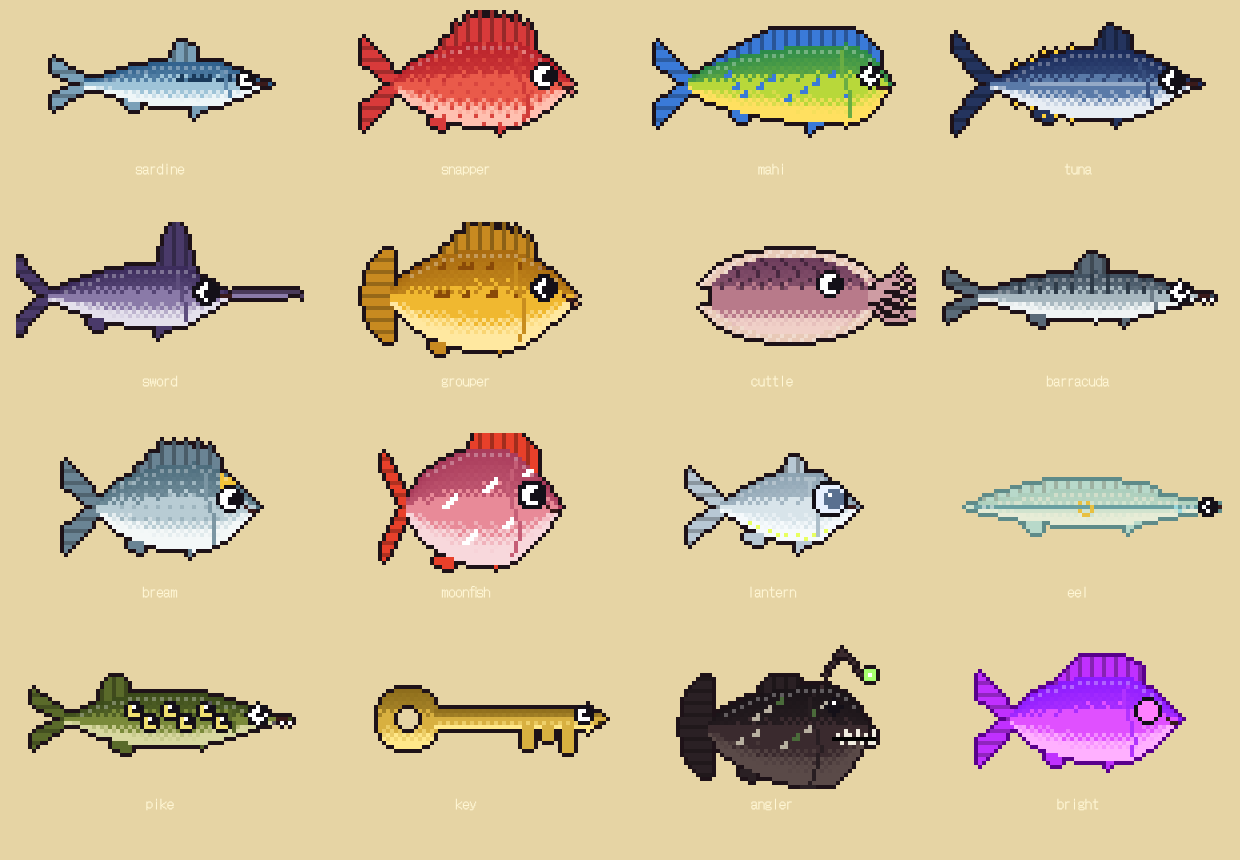
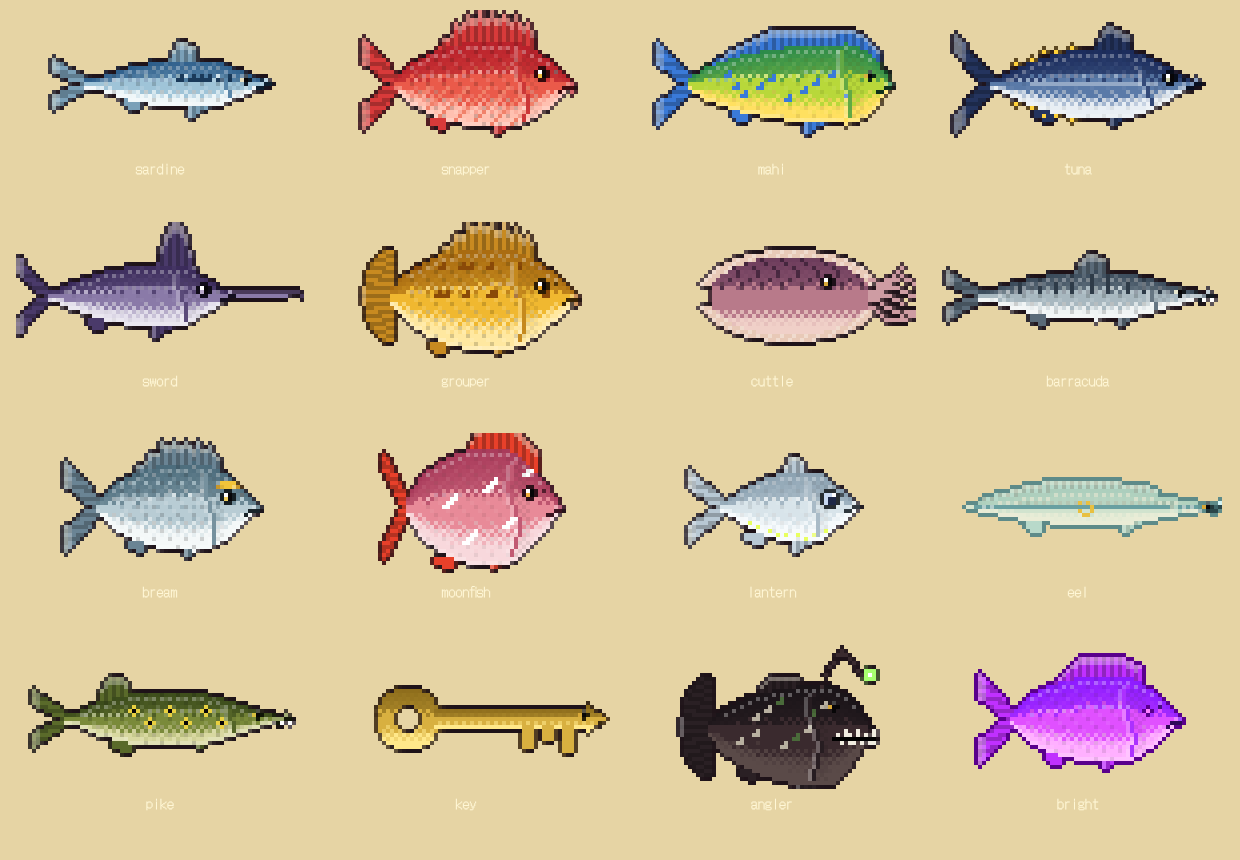
Fish portraits: small real eyes, scales, lateral line, gill covers, fin rays, belly light and coloured outlines
Claude-Session: https://claude.ai/code/session_01P2UrDs7rn72ju48cre94LE

diff --git a/src/fishart.js b/src/fishart.js
@@ -11,23 +11,23 @@ const mixc = (a, b, k) => a.map((v, i) => Math.round(v + (b[i] - v) * k));
 // ---- the species. len/h: body length and half height; peak: where it is deepest (0 tail .. 1 nose); nose: how blunt the head is;
 // cols: back, side, belly, fin; tail: fork | lunate | round | fan | none; dorsal: [from, to, height]; pattern; eye: [t, size]
 const SPEC = {
-  sardine:   { len: 46, h: 6,  peak: 0.6, nose: 0.5, cols: ['#2c5d8a', '#9fc4d8', '#eef6f8', '#7aa0b8'], tail: 'fork', dorsal: [0.45, 0.6, 5], pattern: 'dots', eye: [0.88, 2.2] },
-  snapper:   { len: 44, h: 11, peak: 0.6, nose: 0.6, cols: ['#b8202a', '#ea5a4a', '#ffc0b0', '#d83a3a'], tail: 'fork', dorsal: [0.25, 0.78, 7, 'spiky'], pattern: 'scales', eye: [0.84, 3], lips: true },
-  mahi:      { len: 50, h: 10, peak: 0.78, nose: 1.0, cols: ['#2a8a4a', '#b8d83a', '#ffe060', '#3a7ad8'], tail: 'fork', dorsal: [0.12, 0.95, 5], pattern: 'bluedots', eye: [0.9, 2.4] },
-  tuna:      { len: 52, h: 9,  peak: 0.55, nose: 0.55, cols: ['#1a2a5a', '#5a7aa8', '#e8eef4', '#24345e'], tail: 'lunate', dorsal: [0.5, 0.66, 6], pattern: 'finlets', eye: [0.86, 2.6] },
-  sword:     { len: 46, h: 8,  peak: 0.62, nose: 0.6, cols: ['#3a2a5a', '#8a7aa8', '#e4e0ec', '#4a3a6a'], tail: 'lunate', dorsal: [0.58, 0.78, 11], pattern: null, eye: [0.84, 2.6], bill: 18 },
-  grouper:   { len: 46, h: 12, peak: 0.55, nose: 0.8, cols: ['#a86a10', '#f0b830', '#ffe8a0', '#c88a20'], tail: 'round', dorsal: [0.25, 0.75, 6, 'spiky'], pattern: 'spots', eye: [0.82, 2.6], lips: true, big: true },
+  sardine:   { len: 46, h: 6,  peak: 0.6, nose: 0.5, cols: ['#2c5d8a', '#9fc4d8', '#eef6f8', '#7aa0b8'], tail: 'fork', dorsal: [0.45, 0.6, 5], pattern: 'dots', eye: [0.88, 2.2], iris: '#e8e0c0' },
+  snapper:   { len: 44, h: 11, peak: 0.6, nose: 0.6, cols: ['#b8202a', '#ea5a4a', '#ffc0b0', '#d83a3a'], tail: 'fork', dorsal: [0.25, 0.78, 7, 'spiky'], pattern: 'scales', eye: [0.84, 3], lips: true, iris: '#f0c040' },
+  mahi:      { len: 50, h: 10, peak: 0.78, nose: 1.0, cols: ['#2a8a4a', '#b8d83a', '#ffe060', '#3a7ad8'], tail: 'fork', dorsal: [0.12, 0.95, 5], pattern: 'bluedots', eye: [0.9, 2.4], iris: '#d8b040', scale: 0.5 },
+  tuna:      { len: 52, h: 9,  peak: 0.55, nose: 0.55, cols: ['#1a2a5a', '#5a7aa8', '#e8eef4', '#24345e'], tail: 'lunate', dorsal: [0.5, 0.66, 6], pattern: 'finlets', eye: [0.86, 2.6], iris: '#c8c8a0', scale: 0.4 },
+  sword:     { len: 46, h: 8,  peak: 0.62, nose: 0.6, cols: ['#3a2a5a', '#8a7aa8', '#e4e0ec', '#4a3a6a'], tail: 'lunate', dorsal: [0.58, 0.78, 11], pattern: null, eye: [0.84, 2.6], bill: 18, iris: '#b8a8c8', scale: 0.3 },
+  grouper:   { len: 46, h: 12, peak: 0.55, nose: 0.8, cols: ['#a86a10', '#f0b830', '#ffe8a0', '#c88a20'], tail: 'round', dorsal: [0.25, 0.75, 6, 'spiky'], pattern: 'spots', eye: [0.82, 2.6], lips: true, big: true, iris: '#e8a020' },
   cuttle:    { cuttle: true, len: 40, h: 10, cols: ['#6a3a5a', '#b87a8a', '#f0d0c8', '#e8c8b8'], eye: [0.74, 3] },
-  barracuda: { len: 58, h: 6,  peak: 0.5, nose: 0.35, cols: ['#3a4a5a', '#a8b8c0', '#f0f4f4', '#5a6a78'], tail: 'fork', dorsal: [0.42, 0.55, 5], pattern: 'bars', eye: [0.86, 2.4], teeth: true },
-  bream:     { len: 40, h: 11, peak: 0.6, nose: 0.75, cols: ['#4a6a7a', '#b8ccd4', '#f4f8f8', '#6a8494'], tail: 'fork', dorsal: [0.25, 0.75, 5, 'spiky'], pattern: 'gilt', eye: [0.82, 3] },
-  moonfish:  { len: 38, h: 15, peak: 0.55, nose: 0.85, cols: ['#a83a5a', '#e88a98', '#f8d8dc', '#e8402a'], tail: 'lunate', dorsal: [0.4, 0.85, 9], pattern: 'whitespots', eye: [0.82, 3.2], tailK: 0.7 },
+  barracuda: { len: 58, h: 6,  peak: 0.5, nose: 0.35, cols: ['#3a4a5a', '#a8b8c0', '#f0f4f4', '#5a6a78'], tail: 'fork', dorsal: [0.42, 0.55, 5], pattern: 'bars', eye: [0.86, 2.4], teeth: true, iris: '#e8e8d0' },
+  bream:     { len: 40, h: 11, peak: 0.6, nose: 0.75, cols: ['#4a6a7a', '#b8ccd4', '#f4f8f8', '#6a8494'], tail: 'fork', dorsal: [0.25, 0.75, 5, 'spiky'], pattern: 'gilt', eye: [0.82, 3], iris: '#f0d060' },
+  moonfish:  { len: 38, h: 15, peak: 0.55, nose: 0.85, cols: ['#a83a5a', '#e88a98', '#f8d8dc', '#e8402a'], tail: 'lunate', dorsal: [0.4, 0.85, 9], pattern: 'whitespots', eye: [0.82, 3.2], tailK: 0.7, iris: '#f0b040', scale: 0.4 },
   // the dark ones (only ever drawn once caught)
-  lantern:   { len: 34, h: 9,  peak: 0.62, nose: 0.85, cols: ['#8aa0b0', '#d8e4ea', '#f6fafc', '#b8c8d4'], tail: 'fork', dorsal: [0.45, 0.62, 4], pattern: 'photophores', eye: [0.8, 4.2], pale: true },
+  lantern:   { len: 34, h: 9,  peak: 0.62, nose: 0.85, cols: ['#8aa0b0', '#d8e4ea', '#f6fafc', '#b8c8d4'], tail: 'fork', dorsal: [0.45, 0.62, 4], pattern: 'photophores', eye: [0.8, 4.2], pale: true, scale: 0.5 },
   eel:       { len: 64, h: 4.5, peak: 0.5, nose: 0.4, cols: ['#7ac8d0', '#bfeef0', '#e8ffff', '#9adce4'], tail: 'none', dorsal: [0.05, 0.75, 2], pattern: 'glass', eye: [0.94, 1.8], glass: true },
-  pike:      { len: 56, h: 7,  peak: 0.45, nose: 0.35, cols: ['#3a4a1a', '#7a8a3a', '#d8d8a0', '#5a6a2a'], tail: 'fork', dorsal: [0.15, 0.28, 6], pattern: 'eyes', eye: [0.86, 2.4], teeth: true },
+  pike:      { len: 56, h: 7,  peak: 0.45, nose: 0.35, cols: ['#3a4a1a', '#7a8a3a', '#d8d8a0', '#5a6a2a'], tail: 'fork', dorsal: [0.15, 0.28, 6], pattern: 'eyes', eye: [0.86, 2.4], teeth: true, iris: '#d8c040' },
   key:       { key: true, len: 52, h: 5, cols: ['#8a6a1a', '#d8b040', '#ffe88a', '#a8842a'], eye: [0.9, 2.2] },
   angler:    { len: 40, h: 13, peak: 0.7, nose: 1.0, cols: ['#1a1418', '#3a2a2e', '#5a4a48', '#2a2024'], tail: 'round', dorsal: [0.3, 0.55, 4], pattern: 'barnacles', eye: [0.78, 1.4], angler: true },
-  bright:    { len: 42, h: 11, peak: 0.6, nose: 0.7, cols: ['#8a1aff', '#e050ff', '#ffb0ff', '#c030ff'], tail: 'fork', dorsal: [0.25, 0.75, 6], pattern: null, eye: [0.82, 2.8], neon: true },
+  bright:    { len: 42, h: 11, peak: 0.6, nose: 0.7, cols: ['#8a1aff', '#e050ff', '#ffb0ff', '#c030ff'], tail: 'fork', dorsal: [0.25, 0.75, 6], pattern: null, eye: [0.82, 2.8], neon: true, scale: 0.6 },
 };
 
 function paint(id) {
@@ -85,31 +85,47 @@ function paint(id) {
     if (S.tail === 'round' || S.tail === 'fan') return u * u + v * v * 0.9 < 0.8;
     return false;
   };
-  for (let x = tx - 10; x <= tx + 1; x++) for (let y = 0; y < H; y++) if (S.tail !== 'none' && tailPx(x, y)) set(x, y, mixc(fin, [0, 0, 0], ((y - cy) % 3 === 0) ? 0.25 : 0), S.glass ? 0.6 : 1);
+  for (let x = tx - 10; x <= tx + 1; x++) for (let y = 0; y < H; y++) if (S.tail !== 'none' && tailPx(x, y)) {   // rays fanning out, the tips lighter and thinner
+    const u = (tx - x) / 9, ray = (Math.round((y - cy) * (1 - u * 0.35)) & 1) === 0;
+    set(x, y, mixc(mixc(fin, [0, 0, 0], ray ? 0.22 : 0), [255, 255, 255], u > 0.7 ? 0.28 : 0), S.glass ? 0.6 : u > 0.8 ? 0.85 : 1); }
   // dorsal fin
   if (S.dorsal) { const [a, b, hh, spiky] = S.dorsal;
     for (let x = x0 + a * S.len; x <= x0 + b * S.len; x++) { const t = (x - x0) / S.len, k = (t - a) / (b - a), top = topOf(t);
       let fh = hh * (S.sword || id === 'sword' ? Math.sin(k * Math.PI) : Math.min(1, k * 3) * (1 - k * 0.45)); if (spiky && (Math.round(x) % 3 === 0)) fh += 1.5;
-      for (let y = top - fh; y < top + 1; y++) set(x, y, mixc(fin, [0, 0, 0], Math.round(x) % 3 === 0 ? 0.3 : 0), S.glass ? 0.6 : 1); } }
+      for (let y = top - fh; y < top + 1; y++) { const tip = (top - y) / Math.max(1, fh); set(x, y, mixc(mixc(fin, [0, 0, 0], Math.round(x) % 2 === 0 ? 0.25 : 0), [255, 255, 255], tip > 0.7 ? 0.3 : 0), S.glass ? 0.6 : tip > 0.8 ? 0.85 : 1); } } }
   // belly fins (pectoral and anal)
   { const pt = 0.7, px = x0 + pt * S.len, pb = botOf(pt);
-    for (let i = 0; i < 6; i++) for (let j = 0; j <= i * 0.6; j++) set(px - i, pb - 1 + j, fin, S.glass ? 0.6 : 1);
+    for (let i = 0; i < 7; i++) for (let j = 0; j <= i * 0.6; j++) set(px - i, pb - 1 + j, mixc(fin, i % 2 ? [0, 0, 0] : [255, 255, 255], i % 2 ? 0.2 : (i > 4 ? 0.25 : 0)), S.glass ? 0.6 : 1);
     const at = 0.28, ax = x0 + at * S.len, ab = botOf(at);
     for (let i = 0; i < 5; i++) for (let j = 0; j < 3 - i * 0.4; j++) set(ax - i * 0.8, ab + j, fin, S.glass ? 0.6 : 1); }
   // body
   for (let x = x0; x <= x1; x++) { const t = (x - x0) / S.len, top = topOf(t), bot = botOf(t);
-    for (let y = Math.ceil(top); y <= Math.floor(bot); y++) { const v = (y - top) / Math.max(1, bot - top); set(x, y, shade(v, x, y), S.glass ? 0.55 : 1); } }
+    for (let y = Math.ceil(top); y <= Math.floor(bot); y++) { const v = (y - top) / Math.max(1, bot - top); let c = shade(v, x, y); if (y === Math.floor(bot) && !S.angler) c = mixc(c, [255, 255, 255], 0.22); set(x, y, c, S.glass ? 0.55 : 1); } }
   // patterns
   const onBody = (x, y) => { const t = (x - x0) / S.len; return t >= 0 && t <= 1 && y > topOf(t) + 0.5 && y < botOf(t) - 0.5; };
+  const gillT = S.eye[0] - 0.12;
+  if (S.scale !== 0 && !S.glass && !S.angler) {   // scales: offset rows of small crescents, a dark edge and a lit one, behind the gill only
+    const k = S.scale || 1;
+    for (let y = 0; y < H; y++) for (let x = x0 + 4; x < x0 + S.len * gillT - 1; x++) {
+      if (!onBody(x, y)) continue; const i = y * W + x, c = col[i]; if (!c) continue;
+      const m = (x + ((y >> 1) & 1) * 2) % 4;
+      if ((y & 1) === 0 && m === 0) col[i] = mixc(c, [0, 0, 0], 0.16 * k);
+      else if ((y & 1) === 1 && m === 1) col[i] = mixc(c, [255, 255, 255], 0.12 * k);
+    }
+  }
+  if (!S.angler) for (let x = x0 + 5; x < x0 + S.len * gillT; x += 2) {   // the lateral line, from the gill to the tail
+    const t = (x - x0) / S.len, y = Math.round(topOf(t) + (botOf(t) - topOf(t)) * 0.36 + Math.sin(t * 5) * 0.4), i = y * W + x;
+    if (onBody(x, y) && col[i]) col[i] = mixc(col[i], S.glass ? [40, 90, 100] : [255, 255, 255], 0.35);
+  }
   const dot = (x, y, c, r = 1) => { for (let a = -r; a <= r; a++) for (let b = -r; b <= r; b++) if (a * a + b * b <= r * r + 0.3 && onBody(x + a, y + b)) set(x + a, y + b, c, S.glass ? 0.7 : 1); };
   switch (S.pattern) {
     case 'dots': for (let i = 0; i < 6; i++) dot(x0 + S.len * (0.52 + i * 0.05), cy - 1, '#1a3a5a', 0.6); break;
-    case 'scales': for (let x = x0 + 6; x < x1 - 6; x++) for (let y = 0; y < H; y++) if (onBody(x, y) && (x + (y % 4 < 2 ? 0 : 2)) % 4 === 0 && y % 2 === 0) set(x, y, mixc(side, back, 0.35)); break;
+    case 'scales': for (let x = x0 + 6; x < x1 - 8; x++) for (let y = 0; y < H; y++) if (onBody(x, y) && (x + y) % 5 === 0 && y > cy) set(x, y, mixc(side, [255, 220, 180], 0.3)); break;   // a pale sheen low on the flank
     case 'bluedots': for (let i = 0; i < 10; i++) dot(x0 + S.len * (0.2 + (i * 0.073) % 0.62), cy - 2 + ((i * 5) % 7), '#3a7ad8', 0.6); break;
     case 'finlets': for (let i = 0; i < 5; i++) { const x = x0 + S.len * (0.12 + i * 0.065); set(x, topOf((x - x0) / S.len) - 1, '#ffd23a'); set(x, botOf((x - x0) / S.len) + 1, '#ffd23a'); } for (let x = x0 + 10; x < x1 - 10; x++) set(x, cy, mixc(side, [255, 255, 255], 0.35)); break;
     case 'spots': for (let i = 0; i < 14; i++) dot(x0 + S.len * (0.15 + (i * 0.137) % 0.7), cy - 7 + ((i * 7) % 14), '#8a4a08', 0.7); break;
     case 'bars': for (let k = 0; k < 9; k++) { const x = x0 + S.len * (0.18 + k * 0.075); for (let y = cy - 5; y < cy; y++) if (onBody(x, y)) set(x, y, mixc(back, [0, 0, 0], 0.2)); } break;
-    case 'gilt': for (let y = cy - 8; y < cy - 3; y++) for (let x = x1 - 10; x < x1 - 5; x++) if (onBody(x, y) && Math.abs(x - (x1 - 7.5)) < 1.6) set(x, y, '#f2c43a'); for (let x = x0 + 6; x < x1 - 8; x += 3) for (let y = cy - 6; y < cy + 6; y += 3) if (onBody(x, y)) set(x, y, mixc(side, back, 0.25)); break;
+    case 'gilt': { const exg = Math.round(x0 + S.len * S.eye[0]), eyg = Math.round(cy - prof(S.eye[0]) * 0.32); for (let x = exg - 3; x <= exg + 2; x++) for (let y = eyg - 4; y <= eyg - 3; y++) if (onBody(x, y)) set(x, y, x === exg - 3 || x === exg + 2 ? '#c8962a' : '#f2c43a'); } for (let x = x0 + 6; x < x1 - 8; x += 3) for (let y = cy - 6; y < cy + 6; y += 3) if (onBody(x, y)) set(x, y, mixc(side, back, 0.25)); break;   // the gold brow above the eye, a faint grid of scales
     case 'whitespots': for (let i = 0; i < 16; i++) dot(x0 + S.len * (0.18 + (i * 0.131) % 0.68), cy - 11 + ((i * 9) % 22), '#ffffff', 0.6); break;
     case 'photophores': for (let i = 0; i < 9; i++) { const x = x0 + S.len * (0.2 + i * 0.07); set(x, botOf((x - x0) / S.len) - 1.5, '#e8ff60'); } break;
     case 'glass': for (let x = x0 + 2; x < x1 - 4; x++) set(x, cy + Math.sin(x * 0.35) * 0.4, '#5a9aa0', 0.9);   // the spine, seen through it
@@ -119,7 +135,10 @@ function paint(id) {
     case 'barnacles': for (let i = 0; i < 12; i++) dot(x0 + S.len * (0.12 + (i * 0.17) % 0.6), cy - 9 + ((i * 7) % 15), i % 3 ? '#b8b0a0' : '#4a6a3a', 0.6); break;
   }
   // the head: a gill line, the mouth, and the species' own touches
-  { const gx = x0 + S.len * (S.eye[0] - 0.12); for (let y = topOf((gx - x0) / S.len) + 2; y < botOf((gx - x0) / S.len) - 1; y++) set(gx + Math.sin((y - cy) * 0.3) * 1.2, y, mixc(side, back, 0.55)); }
+  { const gx = x0 + S.len * gillT, gt = (gx - x0) / S.len;   // the gill cover: a dark curve, a lit rim just behind it, the plate a shade darker
+    for (let y = Math.ceil(topOf(gt)) + 2; y < botOf(gt) - 1; y++) { const cx2 = gx + Math.sin((y - cy) * 0.3) * 1.2;
+      set(cx2, y, mixc(side, back, 0.6), S.glass ? 0.6 : 1); if (onBody(cx2 - 1, y)) set(cx2 - 1, y, mixc(col[y * W + Math.round(cx2 - 1)] || side, [255, 255, 255], 0.25), S.glass ? 0.6 : 1);
+      for (let x = Math.round(cx2) + 1; x < x0 + S.len * (S.eye[0] - 0.03); x++) if (onBody(x, y) && (x + y) % 2 === 0) col[y * W + x] = mixc(col[y * W + x] || side, [0, 0, 0], 0.08); } }
   const my = cy + prof(0.97) * 0.35 + (S.angler ? 2 : 0);
   if (S.bill) for (let i = 0; i < S.bill; i++) { set(x1 + i, cy - 1 + i * 0.03, '#4a3a5a'); if (i < S.bill - 4) set(x1 + i, cy, '#8a7aa8'); }
   if (S.angler) {   // a huge jaw with crooked teeth, and the lure on its stalk, glowing
@@ -127,7 +146,11 @@ function paint(id) {
     for (let k = 0; k < 6; k++) { const x = x1 - 8 + k * 1.7; set(x, my - 1, '#f0ece0'); set(x + 0.8, my + 1, '#f0ece0'); if (k % 2) set(x, my - 2, '#f0ece0'); }
     const sx = x1 - 12, sy = topOf((sx - x0) / S.len); for (let i = 0; i < 12; i++) set(sx + i * 0.9, sy - Math.sin(i / 11 * Math.PI) * 7 - i * 0.2, '#3a2a2e');
     for (let a = -1; a <= 1; a++) for (let b = -1; b <= 1; b++) set(sx + 11.5 + a, sy - 3 + b, a || b ? '#a8ff70' : '#ffffff');
-  } else { set(x1 - 1, my, '#3a1a1a'); set(x1 - 2, my, '#3a1a1a'); set(x1 - 3, my - 0.6, '#3a1a1a'); }   // a little smile
+  } else {   // the mouth: a short line turning down at the corner, a lit lip above it, a nostril ahead of the eye
+    const mc = mixc(back, [0, 0, 0], 0.65); set(x1, my, mc); set(x1 - 1, my, mc); set(x1 - 2, my + 0.6, mc); set(x1 - 3, my + 1, mc);
+    set(x1 - 1, my - 1, mixc(side, [255, 255, 255], 0.3));
+    set(x0 + S.len * Math.min(0.97, S.eye[0] + 0.07), cy - prof(S.eye[0]) * 0.4, mixc(back, [0, 0, 0], 0.5));
+  }
   if (S.teeth) { set(x1, my + 1, '#ffffff'); set(x1 - 2, my + 1, '#ffffff'); }
   if (S.lips) { set(x1, my - 1, mixc(back, [255, 200, 200], 0.4)); set(x1, my + 1, mixc(back, [255, 200, 200], 0.4)); }
   paintOutline();
@@ -136,29 +159,26 @@ function paint(id) {
   eye(x0 + S.len * S.eye[0], cy - prof(S.eye[0]) * 0.32 - (S.angler ? 1 : 0), S.eye[1], S.pale ? 'pale' : S.neon ? 'none' : 'w');
   return finish();
 
-  function eye(ex, ey, r, kind) {   // cartoon eye: an outline, the white, a big pupil looking forward, a highlight
+  function eye(ex, ey, r, kind) {   // a real fish eye, small, placed by hand: a dark rim, the iris behind, the pupil looking forward, a dot of light
     ex = Math.round(ex); ey = Math.round(ey);
-    for (let a = -Math.ceil(r) - 1; a <= Math.ceil(r) + 1; a++) for (let b = -Math.ceil(r) - 1; b <= Math.ceil(r) + 1; b++) {
-      const q = Math.hypot(a, b); if (q > r + 0.6) continue;
-      set(ex + a, ey + b, q > r - 0.4 ? '#141018' : kind === 'pale' ? '#e8f0ff' : kind === 'y' ? '#f0e070' : kind === 'none' ? '#ff80ff' : '#ffffff');
-    }
-    if (kind === 'none') return;   // the bright fish has no pupils
-    const pc = kind === 'pale' ? '#5a7090' : '#141018';
-    if (r < 2.5) {   // a small eye: a 2x2 pupil, forward, with one pixel of shine
-      for (const [a, b] of [[0, 0], [1, 0], [0, 1], [1, 1]]) set(ex + a, ey - 1 + b, pc);
-      set(ex, ey - 1, '#ffffff');
-      return;
-    }
-    const pr = r * 0.5, px = ex + 1;   // the pupil, a little forward
-    for (let a = -2; a <= 2; a++) for (let b = -2; b <= 2; b++) if (Math.hypot(a, b) <= pr + 0.15) set(px + a, ey + b, pc);
-    set(px - 1, ey - 1, '#ffffff');   // the shine
+    const rim = kind === 'none' ? [90, 0, 140] : mixc(back, [0, 0, 0], 0.72), P = kind === 'pale' ? [30, 40, 70] : [8, 6, 8];
+    const I = hx(kind === 'pale' ? '#c8d8f0' : kind === 'y' ? '#e8d040' : kind === 'none' ? '#ff80ff' : S.iris || '#d8a838'), L = [255, 255, 255];
+    const STAMP = kind === 'pale' ? ['.RRR.', 'RIILR', 'RIPPR', 'RIPPR', '.RRR.']   // the deep lanternfish: a big pale eye
+      : kind === 'y' ? ['.I.', 'IPI', '.I.']                                        // the pike's other eyes: yellow, staring
+      : kind === 'none' ? ['.R.', 'RIR', '.R.']                                     // the bright fish: no pupil at all
+      : r >= 2.6 ? ['.RR.', 'RLPR', 'RIPR', '.RR.'] : ['.R.', 'IPR', '.R.'];
+    const o = Math.floor(STAMP.length / 2);
+    STAMP.forEach((row, b) => [...row].forEach((ch, a) => { const c = { R: rim, I, P, L }[ch]; if (c) set(ex - o + a, ey - o + b, c); }));
+    if (STAMP.length === 3 && kind !== 'y' && kind !== 'none') set(ex, ey - 1, mixc(rim, L, 0.25));   // a glint on the rim
   }
   function paintOutline() {   // every empty pixel next to a painted one becomes the dark outline
     const out = [];
     for (let y = 0; y < H; y++) for (let x = 0; x < W; x++) { const i = y * W + x; if (A[i] > 0) continue;
       if ((x > 0 && A[i - 1] > 0) || (x < W - 1 && A[i + 1] > 0) || (y > 0 && A[i - W] > 0) || (y < H - 1 && A[i + W] > 0)) out.push(i); }
     const oc = S.glass ? [60, 120, 130] : S.neon ? [90, 0, 140] : [30, 18, 24];
-    for (const i of out) { col[i] = oc; A[i] = S.glass ? 0.8 : 1; }
+    for (const i of out) {   // the outline takes the colour of what it borders, much darker (warmer than flat black)
+      const nb = [i - 1, i + 1, i - W, i + W].find((n) => n >= 0 && n < W * H && A[n] > 0 && col[n]);
+      col[i] = nb != null && !S.glass && !S.neon ? mixc(col[nb], oc, 0.72) : oc; A[i] = S.glass ? 0.8 : 1; }
   }
   function finish() {
     for (let i = 0; i < W * H; i++) if (A[i] > 0 && col[i]) { d[i * 4] = col[i][0]; d[i * 4 + 1] = col[i][1]; d[i * 4 + 2] = col[i][2]; d[i * 4 + 3] = Math.round(A[i] * 255); }

diff --git a/docs/STYLE.md b/docs/STYLE.md
@@ -135,8 +135,10 @@ purple and magenta cosmic horror as dread rises.
   palette between dread 0.5 and 0.85; the Drowned's grey is the deep's own and stays. The waves are a multiplier on the sea's own
   swell, so wind and storms still move them (a fixed height made the Reef look like the deep).
 - **Fish portraits** (`src/fishart.js`, the catch book in the Ship's book): 72x36 per species, painted in code: a body profile, a dark
-  back dithered to a pale belly, fins with rays, the species' tail and pattern, a dark outline, a big cartoon eye (white, pupil looking
-  forward, one pixel of shine), a small smile. The dark fish are the wrong side of the sea: a ring inside the glass eel, the pike's
+  back dithered to a pale belly with a band of reflected light underneath, scales (offset crescents, a dark edge and a lit one) behind
+  the gill, a dotted lateral line, a shaded gill cover with a lit rim, fins with rays and lighter see-through tips, an outline taken from
+  the fish's own colours (darker), a short mouth turning down and a nostril. Eyes are small and real, placed by hand (owner, 2026-11-13:
+  no big cartoon eyes): a dark rim, the iris behind, the pupil looking forward, a dot of light; only the deep lanternfish has a big one. The dark fish are the wrong side of the sea: a ring inside the glass eel, the pike's
   row of yellow eyes, the key that is a key, the barnacled angler with its lure; the Colour's catch is neon with no pupils. Heard-of
   fish show as a brown shadow, unknown ones as a faint shadow. Sheet: `docs/proposals/fish_portraits.png`.
 - **Each region's things on the water** (`src/regiondecor.js`), along the way in to its islands (a harbour's pier direction):

diff --git a/docs/PROGRESS.md b/docs/PROGRESS.md
@@ -1181,4 +1181,7 @@ Trials for the owner to compare; nothing changes without a flag and STYLE.md is 
   where and when, and what the quay told you. Heard of only: its shadow and the hint. Never met: a faint shadow and "? ? ?". Dark fish
   get a card only once caught.
 - Checked headless: the sheet of all sixteen portraits, and the book with five caught (one dark), two heard of and the rest unknown.
-
+- Owner: no big eyes, more detail. The eyes are now small hand-placed stamps (rim, iris, pupil, a dot of light); added scales behind the
+  gill, a lateral line, a gill cover with a lit rim, fin rays with see-through tips, reflected light along the belly and an outline in
+  each fish's own darker colours. (A comment had swallowed the end of the bream's pattern line, so it fell through into the moonfish's
+  spots; fixed.)
